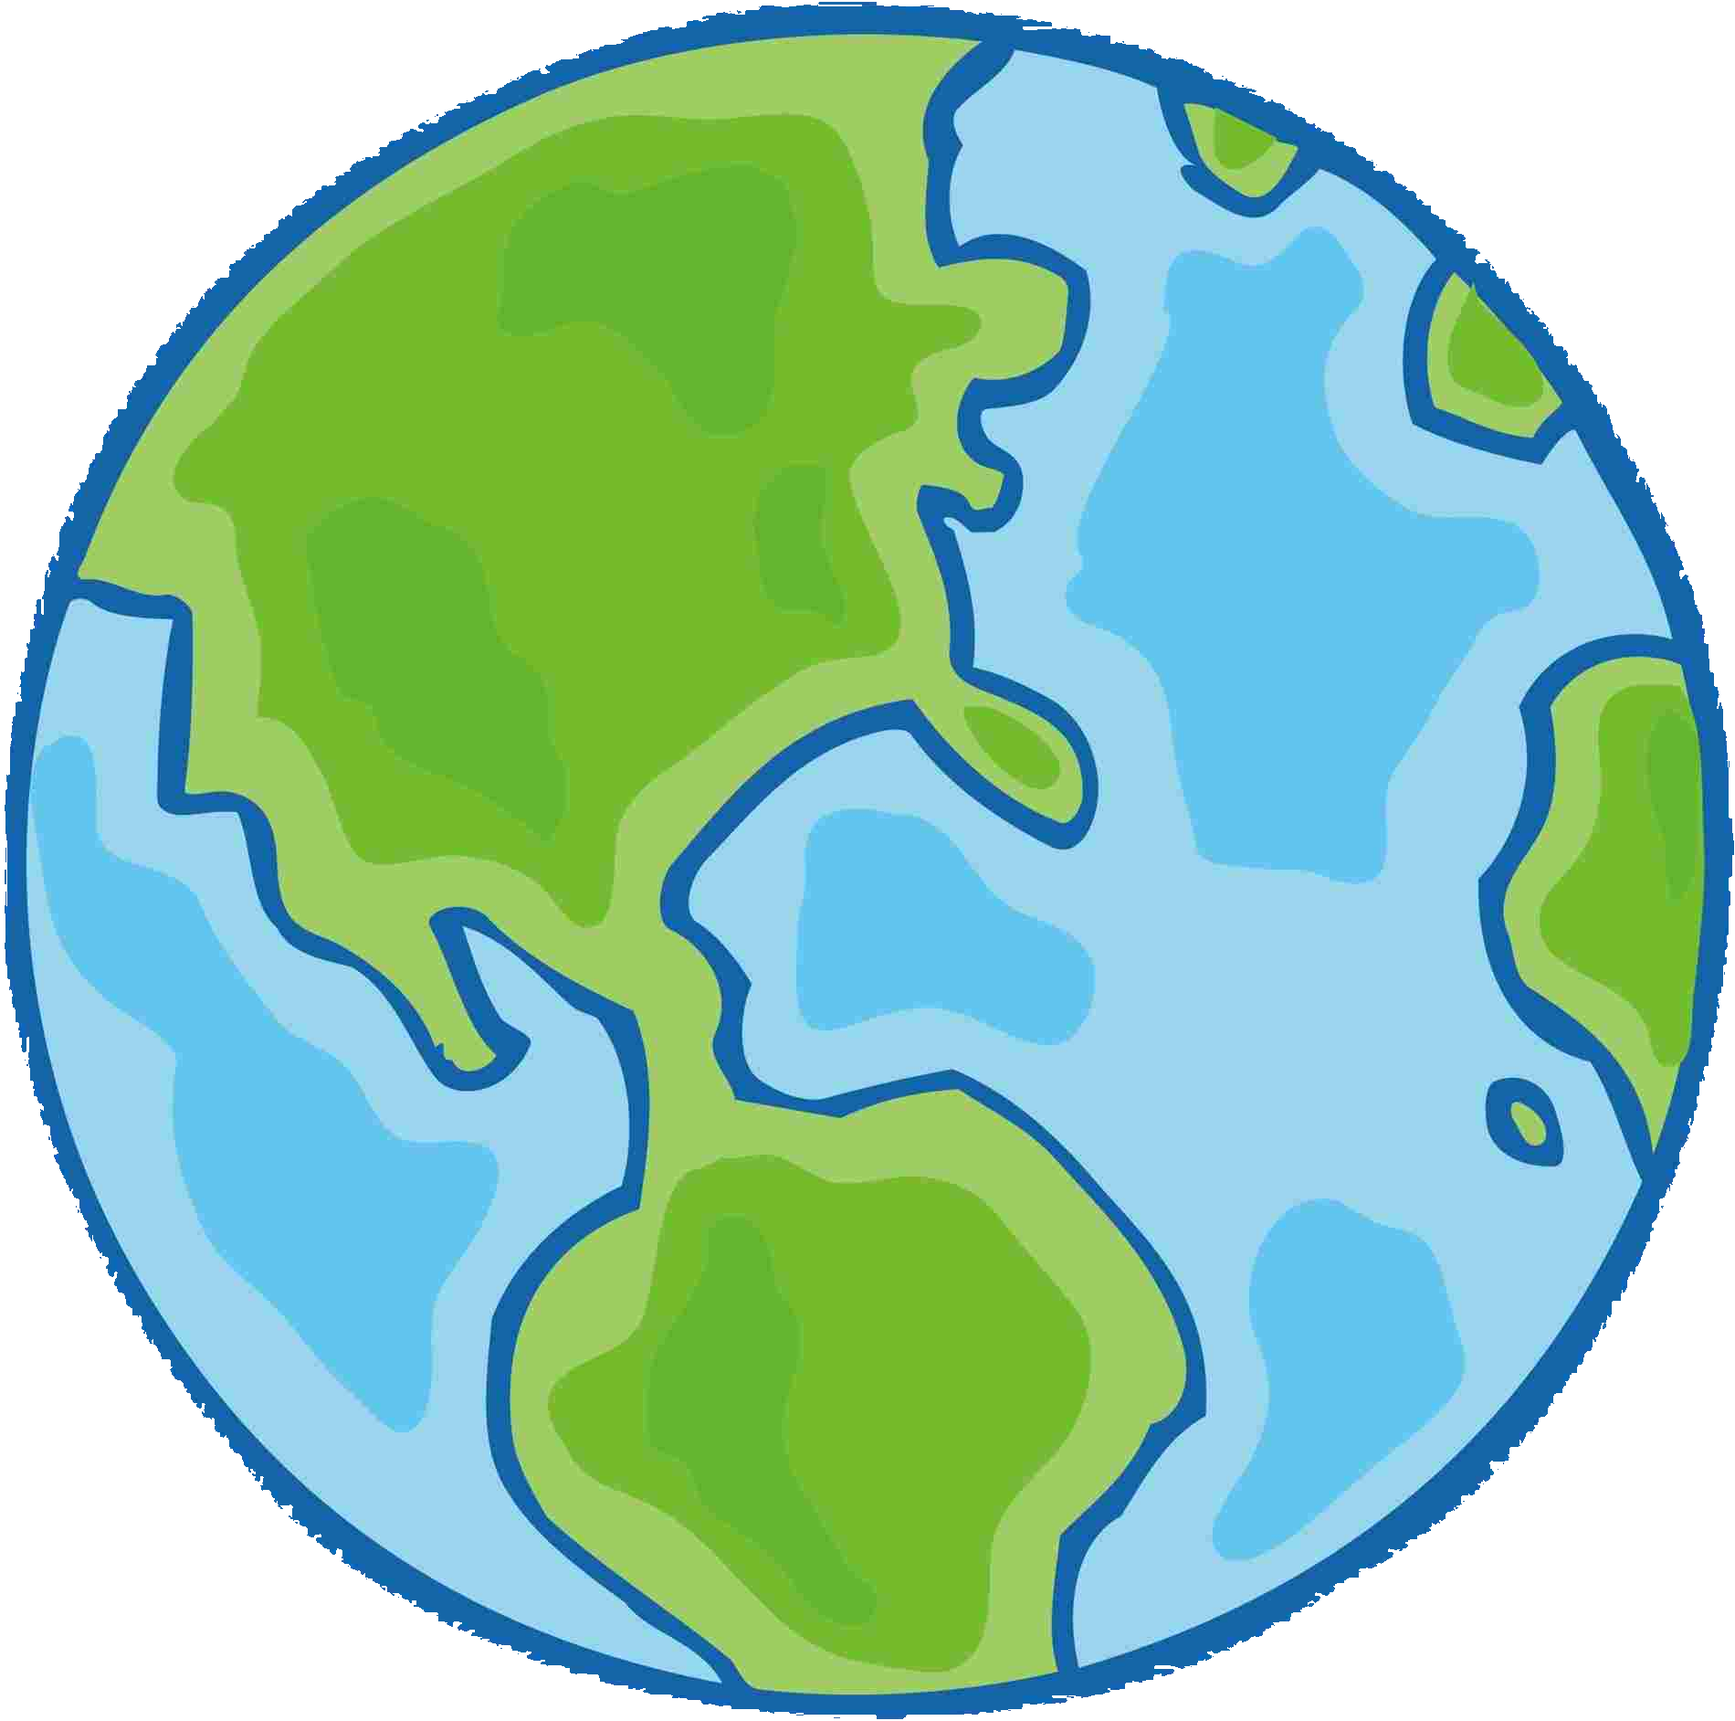
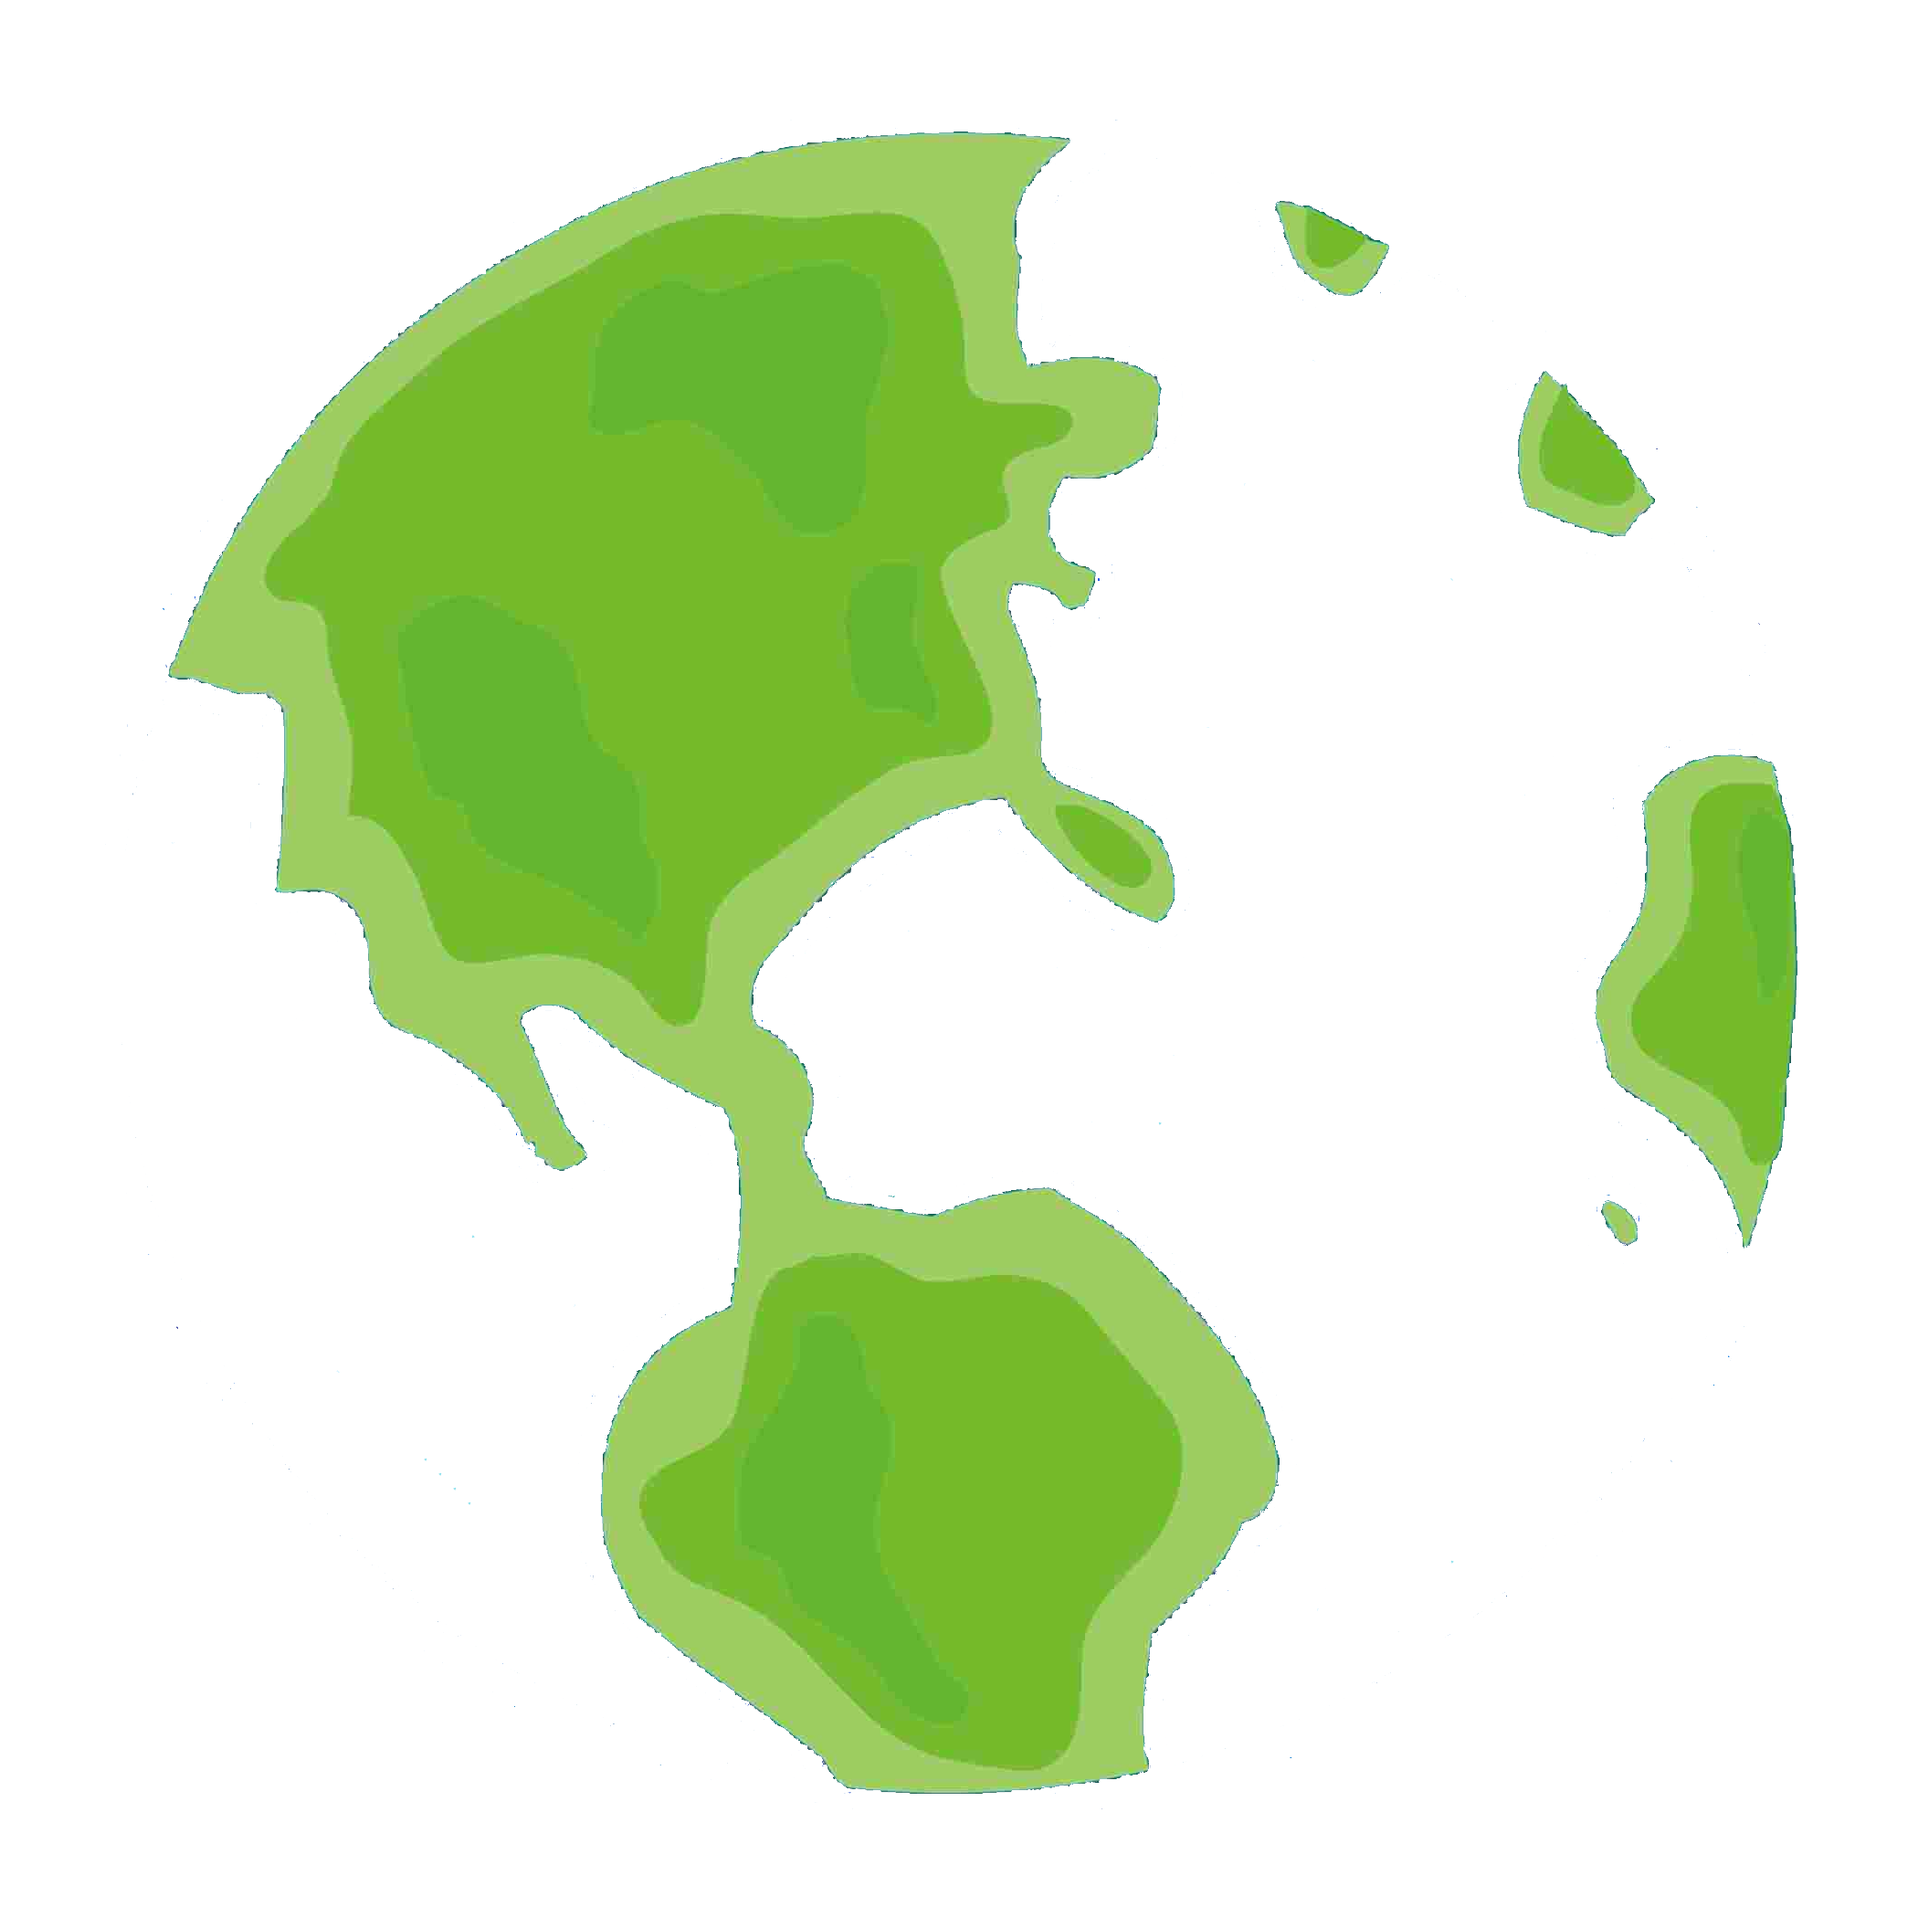
add nice earth

diff --git a/front/style.css b/front/style.css
@@ -30,21 +30,34 @@ body {
 }
 
 .gros {
+    position: relative;
     display: flex;
     justify-content: center;
     align-items: center;
     height: 80vh;
     width: 80vw;
-    /*background-color: green;*/
-    /*opacity: 5%;*/
-    /*margin: 1vh;*/
+    /* background-color: green; */
+    /* opacity: 5%; */
+    /* margin: 1vh; */
 }
 
 .img-terre {
-    max-width: 80%;
-    max-height: 80%;
+    position: relative;
+    z-index: 3;
+    width: 25vw; /* Définissez la largeur de la div */
+    height: auto;
+}
+
+
+.cercle {
+    position: absolute;
+    width: 21.5vw; /* Définissez la largeur de la div */
+    height: 21.5vw; /* Définissez la hauteur de la div */
+    background-color: #3498db; /* Couleur de fond, remplacez-la par la couleur souhaitée */
+    border-radius: 50%; /* Arrondir les coins à 50% pour créer un cercle */
     z-index: 2;
 }
+  
 
 .titleHeader{
     color : #d8ddbd;

diff --git a/front/index.html b/front/index.html
@@ -25,7 +25,8 @@
             <div class="flex-verti"></div>
         </div>
         <div class="gros">
-            <img src="ressources/terre_1.png" class="img-terre">
+            <img src="ressources/terre_indus.png" class="img-terre">
+            <div class="cercle" id="eau-terre5"></div>
         </div>
         <div class="time-bar">
             <div class="time-bar-outside">
